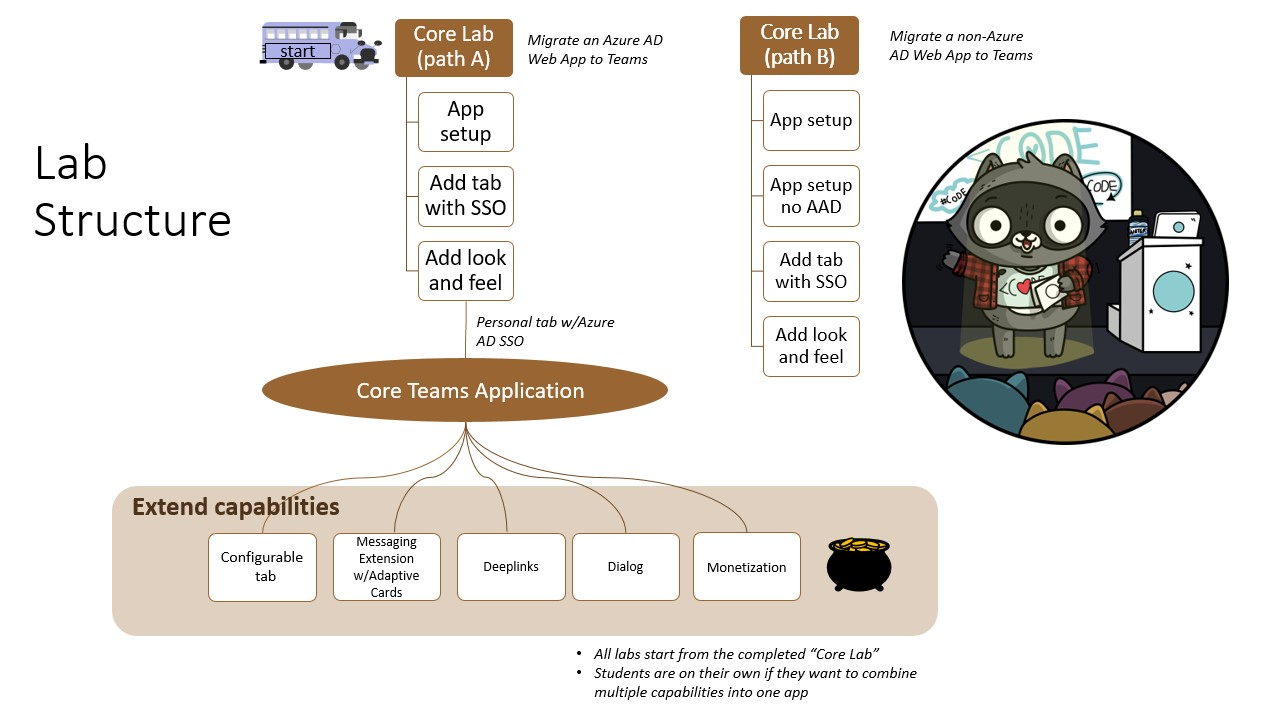
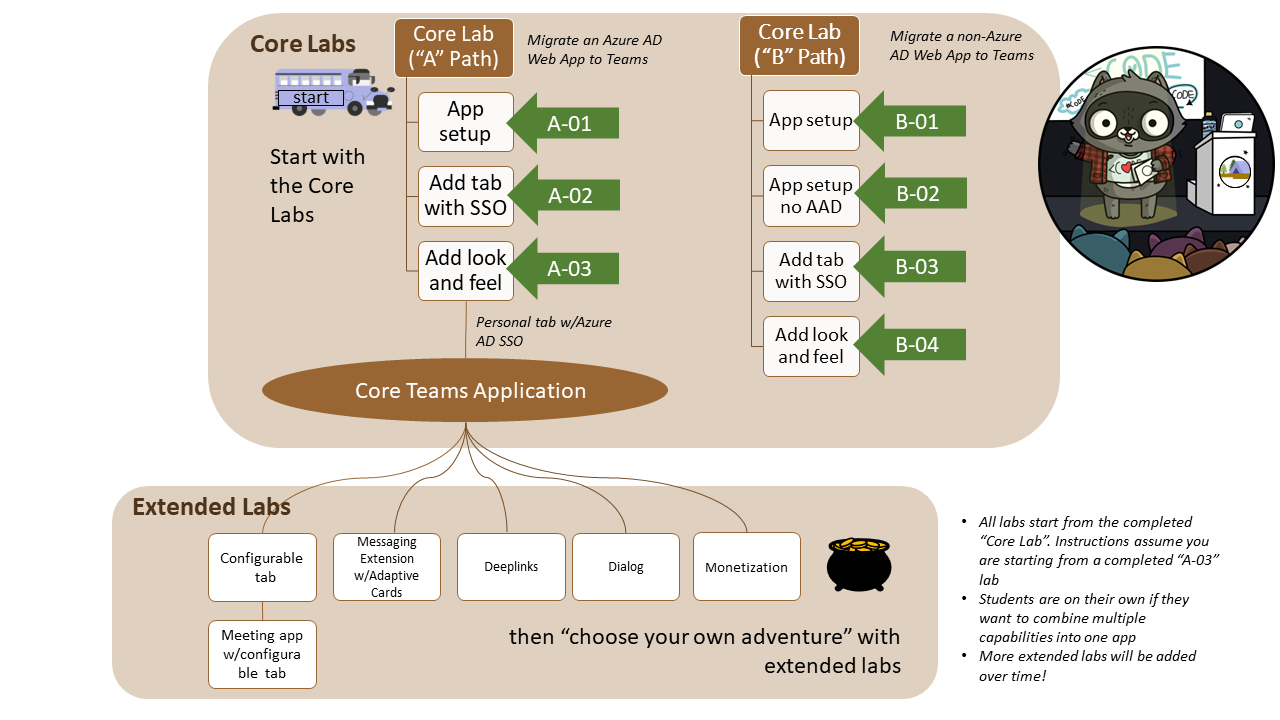
Update "camp map"

diff --git a/docs/index.md b/docs/index.md
@@ -11,12 +11,12 @@ This web site will guide you through a set of videos and hands-on lab exercises 
 ???+ info "Video briefing"
     <div class="video">
       <img src="/app-camp/assets/video-coming-soon.png"></img>
-      <div>Welcome to App Camp!</div>
+      <div>Welcome to Microsoft Teams App Camp!</div>
     </div>
 
 In this series of labs, you will port a simple "Northwind Orders" web application to become a full-fledged Microsoft Teams application. The core labs will show you how to make the web application into a Teams application with a personal tab and Azure AD Single Sign-on. From there, you can choose extended labs depending on the features you need in your application. After completing each lab, the solution will still work as the original stand-alone web application as well as in Microsoft Teams. This is intended to shwo how to extend an existing SaaS application into Microsoft Teams without disrupting non-Teams other users.
 
-![app-camp](./assets/appcamp-readme.png)
+![Map of Teams App Camp](./assets/appcamp-readme.png)
 
 To make the app understandable by a wide audience, it is written in vanilla JavaScript with no UI framework, however it does use modern browser capabilities such as web components, CSS variables, and ECMAScript modules. The server side is also in plain JavaScript, using [Express](https://expressjs.com/), the most popular web server platform for NodeJS. While the code is not production quality, the writers tried to follow best practices with respect to the various API's and SDK's in use, or to call out any exceptions in comments. As for things like robust exception handling, unit testing, build pipeline, etc., those are left to you, the developer; you probably already have a setup you want to use anyway.
 
